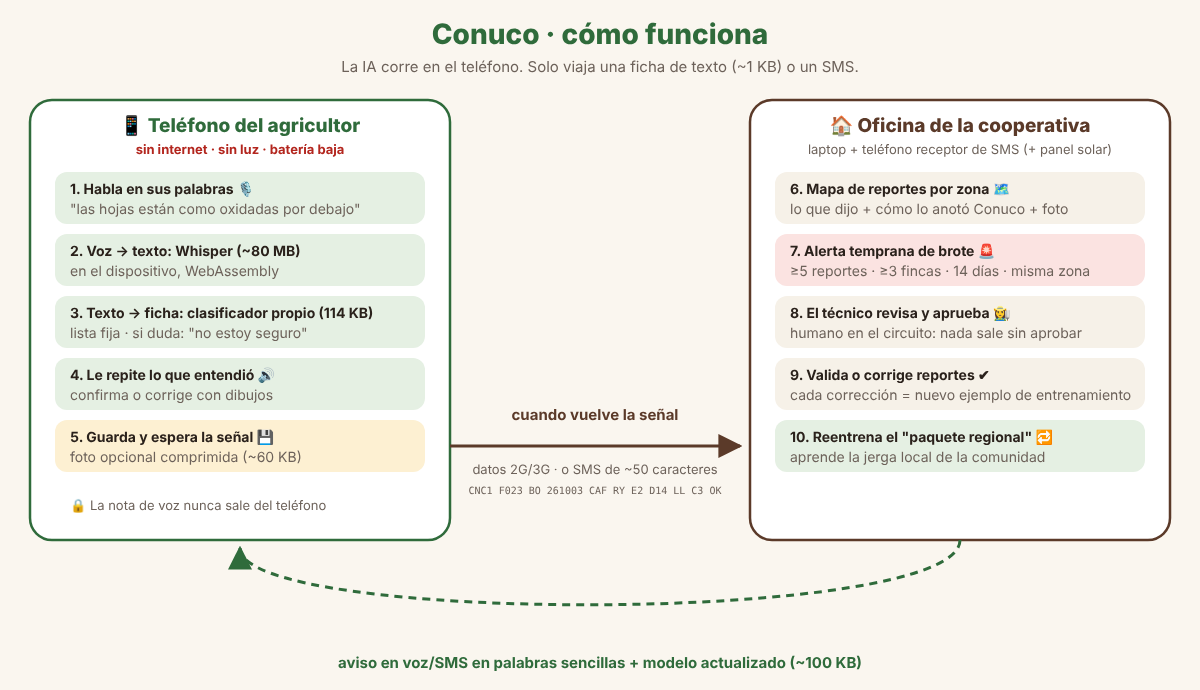
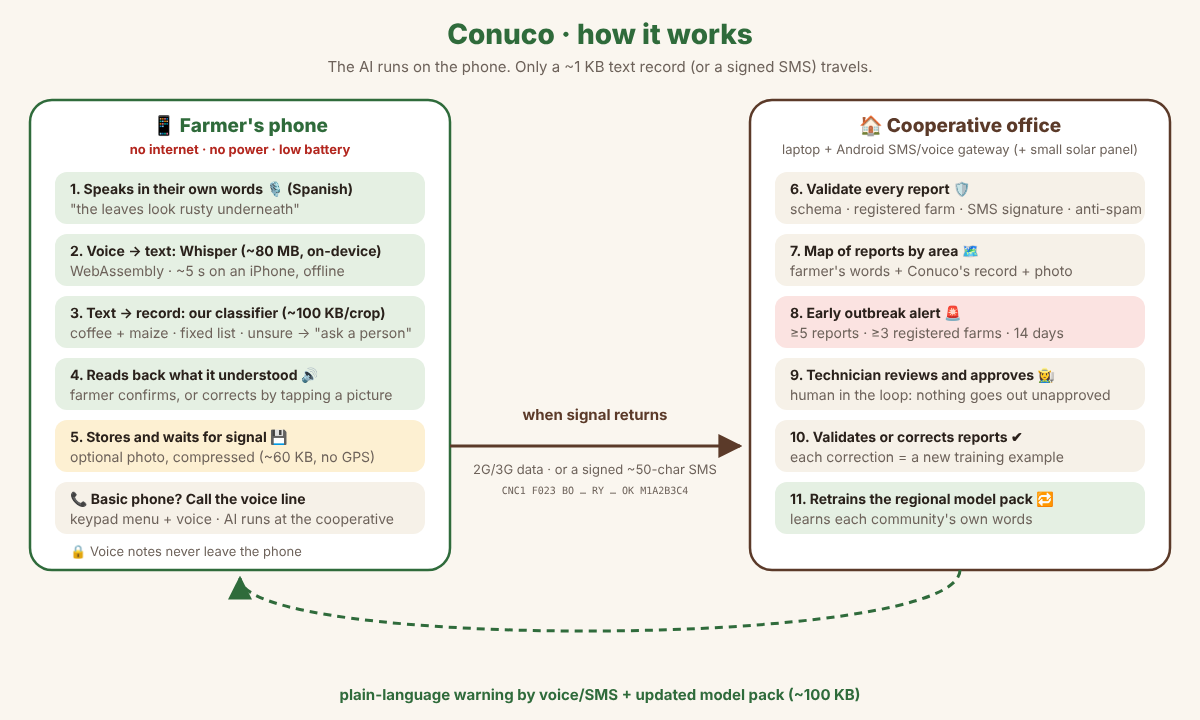
Add files via upload

diff --git a/README (1).md b/README (1).md
@@ -1,0 +1,121 @@
+# 🌱 Conuco — a voice field notebook that works without internet or electricity
+
+**Hack-Nation 7th Global AI Hackathon · World Bank "Small AI for Development" · Track B: Agriculture**
+
+🔗 **Live demo:** https://oryamx.github.io/conuco/ (farmer app) · https://oryamx.github.io/conuco/cooperativa.html (cooperative panel) · https://oryamx.github.io/conuco/llamada.html (voice line simulator for basic phones)
+
+🛡 **Security:** threat model + 21 automated attack tests, all passing → [SECURITY.md](SECURITY.md)
+
+> *Conuco* is the Venezuelan word for a small family farm plot.
+
+## The problem
+In Venezuela's Andean coffee region, farmers live with daily blackouts (≈98% of households in the Andes report daily outages — Infobae, Sep 2026), weak or no mobile signal, and an extension officer who visits twice a year at best. Coffee yields were reported at 4–8 quintals/ha versus 25–30 possible (Fedeagro, 2020 data).
+
+When a pest or disease starts, the farmer sees it first — but has no one to tell, no technical vocabulary to describe it, and **no record exists of what is happening in the field**. By the time a technician hears about it, it has spread across the valley. The World Bank brief names this gap directly: *"the binding constraint is the absence of a working farmer registry rather than the absence of an algorithm."*
+
+## The solution
+Everyone builds AI that **talks to** farmers. Conuco is AI that **listens to** them — and turns what they already know into data a technician can act on.
+
+1. The farmer **speaks in their own words**: *"las hojas están como oxidadas por debajo y se están cayendo"* ("the leaves look rusty underneath and are falling").
+2. **On the phone, offline**, Whisper transcribes the voice note and a tiny classifier we trained turns it into a **technical field record** (crop, compatible symptom, plant part, extent, since when, weather).
+3. Conuco **reads back what it understood, out loud**. The farmer confirms, or corrects by tapping a picture.
+4. The record is stored on the phone and **sent automatically when signal returns** — or as a ~50-character SMS.
+5. The cooperative sees a **map** and gets an **early outbreak alert** when several farms in one area report the same thing.
+6. A **technician or cooperative promoter reviews and approves** the alert, which goes back to every farm in the area in plain language (voice/SMS).
+
+Conuco **does not diagnose or prescribe**. It records what the person sees and tells a person. When it is not sure, it says so.
+
+## Three ways to report — including basic phones
+| Channel | For whom | How |
+|---|---|---|
+| 📱 App (offline) | Farmers with a smartphone (even a shared one) | Voice → on-device AI → record → sent when signal returns |
+| 📩 Signed SMS | Smartphone but no mobile data | The app produces a ~50-character SMS with an HMAC signature; the cooperative verifies it (forged, replayed or unregistered SMS are rejected) |
+| 📞 Voice line | **Basic phones** (Noor's own phone) | Call the cooperative line → keypad menu → speak after the tone → AI runs on the cooperative's device → confirm with the keypad. If the AI doesn't understand, the farmer picks the problem with the keypad. *Prototype: browser simulator; connecting a real phone line (an Android gateway at the cooperative or a telephony provider) is the next step.* |
+
+## Two crops, two tiny model packs
+| Pack | Why | Categories (fixed list + "not sure") | Model size |
+|---|---|---|---|
+| ☕ Coffee | The World Bank brief's scenario; Venezuela's Andean smallholders | rust, berry borer, leaf miner, American leaf spot, brown eye spot, dieback, chewing insects (leaf-cutter ants), nutrition | ~130 KB |
+| 🌽 Maize | The most critical crop for food security in Venezuela; grown on almost every *conuco* | fall armyworm, root pests (white grubs / Diabrotica), damaged ears, stored-grain weevil, drought stress, nutrition, leaf spots | ~105 KB |
+
+The farmer picks what they grow when they register; if they name a crop in the sentence ("el maíz…"), Conuco switches pack automatically. Adding a crop = adding training phrases and running `python3 modelo/entrenar.py --cultivo <crop>`. Maize categories are deliberately conservative ("compatible with…, needs technician review").
+
+## Why AI (and why a simpler tool would not do the job)
+An SMS form needs literacy and technical vocabulary. A farmer can say *"los bachacos dejaron las matas peladitas"*; only speech recognition + language understanding can turn that into *"chewing-insect damage (leaf-cutter ants)"* — and do it offline, on a phone that is charged a few hours a day.
+
+## Results with a real Venezuelan speaker (voice, on-device)
+Gabi (team, Venezuelan) spoke 9 test phrases out loud into the live app (measured with the coffee model before the later updates; categories were added afterwards). The phrases were written by the team and were **not** used for training.
+
+| Outcome | Count |
+|---|---|
+| Correct category | **8 / 9** |
+| Wrong category with high confidence | **0** |
+| "Not sure → ask a person" | 1 (speech recognition heard *"Dios"* instead of *"cogollos"*; the app refused to guess) |
+
+**First real test, first failure, first lesson:** the very first thing Gabi said was *"las hojas están como comidas"* (leaves look eaten). The model had no category for chewing-insect damage, so it answered **"not sure"** instead of inventing. We added the category, retrained, and it now understands it. That is exactly how Conuco is meant to learn the language of each community.
+
+**On a real phone (iPhone, Safari, airplane mode):** voice note → understood record in **~5 seconds**, fully offline (Whisper base). When signal came back, the queued report reached the cooperative in **1–2 seconds**. Not yet measured on a low-end Android; `?modelo=tiny` (~40 MB) is the fallback for weaker phones.
+
+⚠ Honest limits: all test phrases were written by the team, not by farmers; this measures the voice pipeline and phrasing variations, not real farmer vocabulary.
+
+## Who uses it and who runs it
+| Role | Tool | What they do |
+|---|---|---|
+| Farmer | Phone app (offline) | Speaks, confirms, optionally adds a photo, reports |
+| Technician / cooperative promoter | Panel (`cooperativa.html`) | Reviews, validates or corrects reports; approves alerts |
+| Regional coordinator (cooperative / federation) | `modelo/entrenar.py` | Retrains the regional model pack with validated phrases and publishes it |
+
+The cooperative owns its data. Minimum infrastructure: a laptop or mini-PC at the office and an old Android phone as an SMS receiver (optional: small solar panel). Hosting cost is near zero because **all AI runs on the phone**; the website is only needed to install the app once (it can also be side-loaded from the promoter's laptop).
+
+![Architecture](arquitectura.png)
+
+## Architecture (everything runs in the browser)
+| Piece | Technology | Where it runs |
+|---|---|---|
+| Voice → text | Whisper base/tiny (q8 quantized, ~80 / ~40 MB) via transformers.js + ONNX WebAssembly, in a Web Worker | Phone, offline |
+| Text → field record | **Our own classifiers**, one per crop: character n-gram TF-IDF + logistic regression, **~130 KB coffee / ~105 KB maize** (`modelo_conuco.json`, `modelo_maiz.json`), fixed list of categories, confidence thresholds (≥70% sure, 45–70% "check", <45% "not sure → ask a person"); `lexicon.js` extracts plant part, extent, timing and weather and explains which words it recognized | Phone, offline |
+| Speech recognition fixes | Small list of common mis-hearings of farm words (e.g. *"más ron"* → *"marrón"*), grows with real corrections | Phone |
+| Read-back | Web Speech API (system voice) | Phone, offline |
+| Photo (optional) | Compressed to 640 px JPEG (~40–80 KB) as **evidence for the technician** — not diagnosed by AI | Phone → cooperative |
+| Offline app | Service Worker + Cache Storage | Phone |
+| Delayed sending | Local queue (store-and-forward) + SMS code | Phone |
+| Panel & alerts | Leaflet map + outbreak rule (≥5 reports, ≥3 farms, 14 days, same area and symptom) | Cooperative office |
+
+In this prototype the "cooperative" is the panel on the same site (shared browser storage). In production, sending would go to the cooperative's server or an SMS gateway — not built yet.
+
+## Conuco learns from use (how it adapts to other regions and slang)
+1. The farmer corrects by tapping a picture, or the technician validates/corrects the report in the panel.
+2. The panel counts validated phrases and lets you download them (`frases_validadas.txt`).
+3. `python3 modelo/entrenar.py --entrenar-con frases_validadas.txt` retrains the model with the area's real vocabulary.
+4. The new model (~130 KB) is pushed to phones when there is signal.
+
+A model pack per region or language is ~130 KB — small enough to send over a weak connection. Whisper already covers Spanish accents across Latin America and ~99 languages; low-resource languages (e.g. Quechua, Wayuunaiki) would need Common Voice / MMS data.
+
+## Data
+- `reportes_sinteticos.json` / `generar_sinteticos.py`: **synthetic** demo reports (coffee in the Andes, maize in Portuguesa), labeled as such in the UI.
+- Maize pests context: AgroDigital Venezuela (MINCYT), *Principales plagas*: fall armyworm, white grubs, Diabrotica, maize weevil.
+- `modelo/frases.py`: **synthetic** training phrases written by the team (≈2,400 coffee + ≈2,100 maize generated examples). To be replaced/extended with real reports confirmed by technicians.
+- The farmer vocabulary is a **hackathon draft**: it must be validated with coffee farmers and agronomists in each area.
+- Problem context: Venezuelan electricity crisis 2026 (Infobae, Sep 2026); coffee yields 4–8 qq/ha vs 25–30 ideal and production covering ~21% of national consumption (Fedeagro via Crónica Uno, 2020 data). Venezuelan production figures are disputed between official and independent sources.
+
+## What it does not cover (yet)
+- No real farmer data yet; vocabulary and reports are test data.
+- The voice line for basic phones is a **simulator**: the real telephony connection is not built yet.
+- No backend yet (see SECURITY.md for the full list of limitations).
+- Similar systems exist (e.g. FAO's FAMEWS for fall armyworm). Conuco's difference is *how* reports are made: by voice, in the farmer's own words, fully offline.
+
+## Responsible by design
+- A person always has the last word (the farmer confirms; the technician approves alerts).
+- Only registered farms count toward alerts; signed SMS; anti-spam caps; strict validation; CSP. See [SECURITY.md](SECURITY.md).
+- Fixed list of answers: it cannot invent diagnoses or prescribe agrochemicals.
+- Voice notes **never leave the phone**; only the text record travels, without the farmer's name and with consent.
+
+## Language note
+The app's interface is in **Spanish on purpose**: it is built for Spanish-speaking farmers (the brief requires a local language). Code comments are in Spanish too. Everything judges need — this README, [SECURITY.md](SECURITY.md) and the videos — is in English. Key UI words: *Toca para hablar* = tap to speak · *Lo que entendí* = what I understood · *Sí, así es* = yes, that's right · *Sin señal* = no signal · *Panel de la cooperativa* = cooperative panel · *Línea de voz* = voice line.
+
+## Run it locally
+Any static server works: `python3 -m http.server` and open `http://localhost:8000`. The first load downloads the speech model; after that it works in airplane mode. `?modelo=tiny` uses Whisper tiny for low-end phones.
+
+---
+### 🇻🇪 Resumen en español
+Conuco es un cuaderno de campo por voz para agricultores sin internet ni luz. El agricultor habla con sus palabras, la IA en el teléfono lo convierte en una ficha técnica, se lo repite para confirmar y lo envía cuando vuelve la señal. La cooperativa ve un mapa, recibe alertas tempranas de brotes y un técnico decide qué avisar. Cada corrección enseña al modelo la forma de hablar de cada comunidad.
